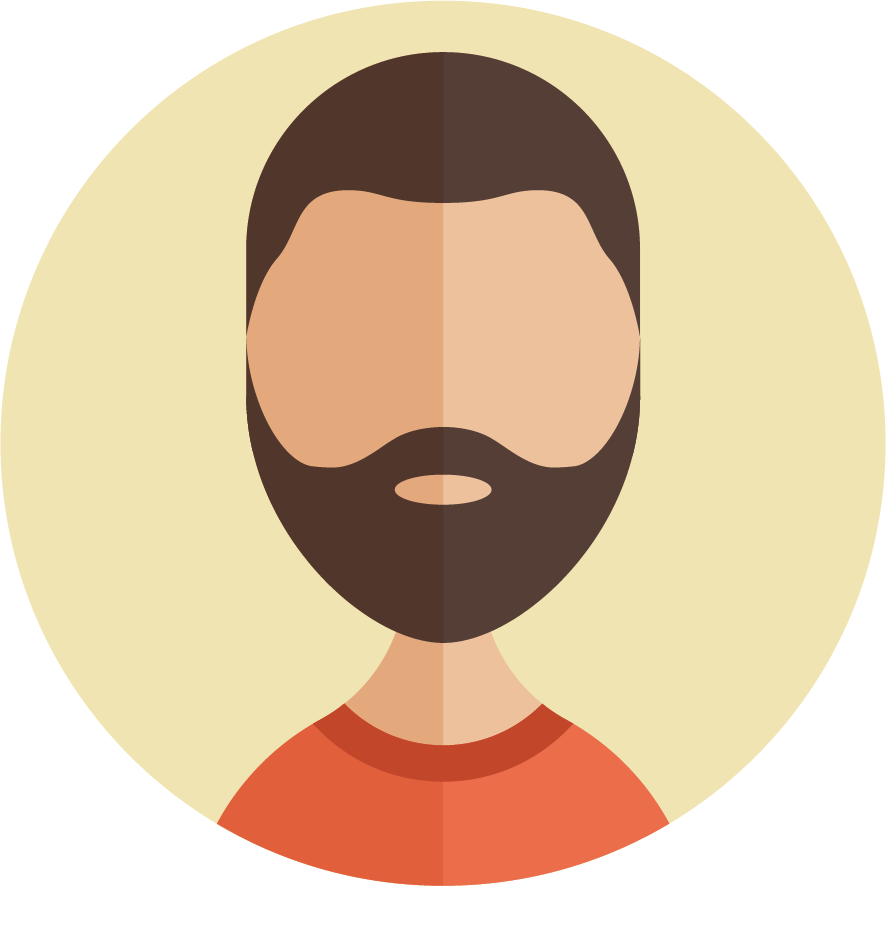
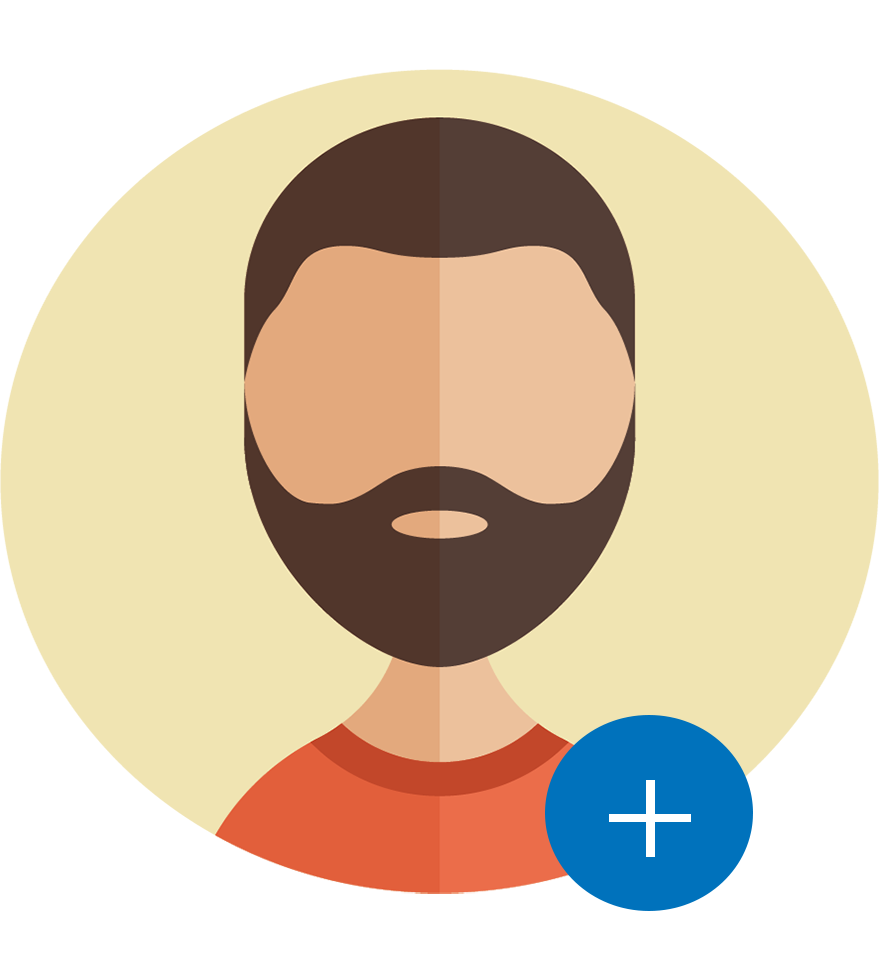
new add photo picture in register

diff --git a/src/scenes/Register/registerManager.js b/src/scenes/Register/registerManager.js
@@ -34,8 +34,10 @@ import {
 // Load new page after each completed stage in sign up
 class RegisterManager extends Component {
 
+  // TODO migrate to register-index
   state = {
     photo: null,
+    name: "",
   };
 
   componentDidMount() {
@@ -68,7 +70,7 @@ class RegisterManager extends Component {
     }
   };
 
-  // image picker (camera roll)
+  // image picker (camera roll) TODO migrate to register-index
   handleChoosePhoto = () => {
     const option = {
       noData: true
@@ -80,6 +82,10 @@ class RegisterManager extends Component {
         this.setState({ photo: response });
       }
     });
+  };
+
+  handleNameChange = event => {
+    this.setState({ name: event.target.value });
   };
 
   render() {
@@ -96,8 +102,10 @@ class RegisterManager extends Component {
               autoCapitalize="none"
               placeholderTextColor="#868686"
               onChangeText={val => this.props.nameHandler(val)}
+              value= { this.props.name }
+              // onChangeText={ this.handleNameChange }
             />
-            {/* <Text style={styles.error}> {errors.name} </Text> */}
+
             {setToBottom(            
                 <MyButton
                   style={ styles.nextButton }
@@ -120,7 +128,9 @@ class RegisterManager extends Component {
               placeholderTextColor="#868686"
               onChangeText={val => this.props.emailHandler(val)}
             />
+
             {/* <Text style={styles.error}> {errors.email} </Text> */}
+
             {setToBottom(
               <View style={ styles.buttom }>
                 <TouchableOpacity onPress={() => this.props.stageHandler(C.GET_NAME)}>
@@ -156,6 +166,7 @@ class RegisterManager extends Component {
               placeholderTextColor="#868686"
               onChangeText={val => this.onChangeText("password", val)}
             />
+
             {/* <Text style={styles.error}> {errors.password} </Text> */}
 
             {/* Cfm password */}
@@ -170,7 +181,9 @@ class RegisterManager extends Component {
               placeholderTextColor="#868686"
               onChangeText={val => this.onChangeText("passwordCfm", val)}
             />
+
             {/* <Text style={styles.error}> {errors.passwordCfm} </Text> */}
+
             {setToBottom(
               <View style={ styles.buttom }>
                 <TouchableOpacity onPress={() => this.props.stageHandler(C.GET_EMAIL)}>
@@ -204,7 +217,7 @@ class RegisterManager extends Component {
              activeOpacity={0.5}
              onPress={this._pickImage}>        
                 {this.state.photo != null?
-                  <Image style= { styles.profilePic } source={ {uri:this.state.photo.uri} } /> :
+                  <Image style= { [styles.profilePic, styles.profilePicBorder] } source={ {uri:this.state.photo.uri} } /> :
                   <Image style= { styles.profilePic } source={require('../../../assets/images/default-profile-pic.png')} />
                 }
             </TouchableOpacity>
@@ -364,10 +377,13 @@ const styles = StyleSheet.create({
 
   profilePic: {
     marginTop: 30,
-    width: Dimensions.get('window').width * 0.35,
-    height: Dimensions.get('window').width * 0.35,
-    borderRadius: Dimensions.get('window').width * 0.35/2,
+    width: wd(0.3),
+    height: wd(0.3),
     alignSelf: 'center',
+  },
+
+  profilePicBorder: {
+    borderRadius: wd(0.3)/2,
   },
 
   buttom: {
